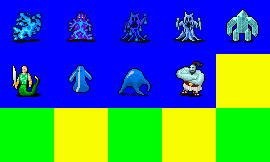
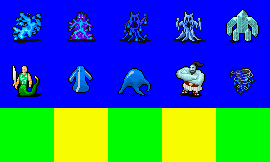
Added trolls

Changed region(s): [[0.8, 0.3086, 1.0, 0.679]]

diff --git a/monsters/goblins.py b/monsters/goblins.py
@@ -104,12 +104,12 @@ class GoblinPyromaniac( base.Monster ):
     ATTACK = items.Attack( (1,6,0), element = stats.RESIST_CRUSHING )
     TECHNIQUES = ( invocations.Invocation( "Fire Bomb",
         effects.OpposedRoll( att_skill=stats.PHYSICAL_ATTACK, att_stat=stats.REFLEXES, def_stat=stats.REFLEXES, att_modifier=-25, on_success = (
-            effects.HealthDamage( (1,6,0), stat_bonus=None, element=stats.RESIST_FIRE, anim=animobs.OrangeExplosion ),
+            effects.HealthDamage( (1,4,0), stat_bonus=None, element=stats.RESIST_FIRE, anim=animobs.OrangeExplosion ),
             effects.Enchant( enchantments.BurnLowEn )
         ,), on_failure = (
-            effects.HealthDamage( (1,6,0), stat_bonus=None, element=stats.RESIST_FIRE, anim=animobs.OrangeExplosion )
+            effects.HealthDamage( (1,4,0), stat_bonus=None, element=stats.RESIST_FIRE, anim=animobs.OrangeExplosion )
         ,) ),
-        com_tar=targetarea.Blast(radius=1,reach=6), shot_anim=animobs.Fireball, ai_tar=invocations.TargetEnemy() ), )
+        com_tar=targetarea.Blast(radius=1,reach=4), shot_anim=animobs.Fireball, ai_tar=invocations.TargetEnemy() ), )
     def init_monster( self ):
         self.levels.append( base.Humanoid( 3, self ) )
 
@@ -612,5 +612,43 @@ class OrcChampion( base.Monster ):
     ATTACK = items.Attack( (2,6,0), element = stats.RESIST_SLASHING )
     def init_monster( self ):
         self.levels.append( base.Humanoid( 8, self ) )
+
+
+
+#  ****************
+#  ***  TROLLS  ***
+#  ****************
+
+class Troll( base.Monster ):
+    name = "Troll"
+    statline = { stats.STRENGTH: 19, stats.TOUGHNESS: 19, stats.REFLEXES: 10, \
+        stats.INTELLIGENCE: 6, stats.PIETY: 9, stats.CHARISMA: 6, \
+        stats.RESIST_FIRE: -100, stats.RESIST_ACID: -100 }
+    SPRITENAME = "monster_goblins.png"
+    FRAME = 28
+    TEMPLATES = ()
+    MOVE_POINTS = 10
+    VOICE = dialogue.voice.ORCISH
+    HABITAT = ( context.HAB_EVERY, context.SET_EVERY,
+     context.MAP_DUNGEON,
+     context.MTY_HUMANOID, context.MTY_FIGHTER, context.GEN_GOBLIN )
+    ENC_LEVEL = 6
+    TREASURE = treasuretype.High()
+    ATTACK = items.Attack( (1,8,0), element = stats.RESIST_CRUSHING )
+    def init_monster( self ):
+        self.levels.append( base.Humanoid( 6, self ) )
+        self.condition.append( enchantments.PermaRegeneration() )
+
+# Rock Troll
+# Weird Troll
+# Troll Warrior
+# Rock Troll Warrior
+# Troll Champion
+# Troll Priest
+# Armored Troll
+# Fire Troll
+# Iron Troll
+# Troll King + Troll Bodyguard
+
 
 

diff --git a/monsters/constructs.py b/monsters/constructs.py
@@ -39,6 +39,7 @@ class PewterGolem( base.Monster ):
     HABITAT = ( context.HAB_BUILDING, context.SET_EVERY,
      context.MTY_CONSTRUCT, )
     ENC_LEVEL = 3
+    COMBAT_AI = aibrain.SteadyAI()
     TREASURE = treasuretype.Standard()
     ATTACK = items.Attack( (1,6,0), element = stats.RESIST_CRUSHING )
     def init_monster( self ):
@@ -56,19 +57,21 @@ class PewterGolem( base.Monster ):
 class ClockworkSoldier( base.Monster ):
     name = "Clockwork Soldier"
     statline = { stats.STRENGTH: 18, stats.TOUGHNESS: 18, stats.REFLEXES: 12, \
-        stats.INTELLIGENCE: 1, stats.PIETY: 12, stats.CHARISMA: 8 }
+        stats.INTELLIGENCE: 1, stats.PIETY: 12, stats.CHARISMA: 8, \
+        stats.RESIST_LIGHTNING: -150 }
     SPRITENAME = "monster_constructs.png"
     FRAME = 11
     TEMPLATES = (stats.CONSTRUCT,)
-    MOVE_POINTS = 10
+    MOVE_POINTS = 8
     VOICE = None
     HABITAT = ( context.HAB_EVERY, context.HAB_TUNNELS, context.SET_EVERY,
      context.MAP_DUNGEON,
      context.MTY_CONSTRUCT, context.MTY_FIGHTER )
     ENC_LEVEL = 5
+    COMBAT_AI = aibrain.BrainDeadAI()
     # Clockwork soldiers don't have normal treasure, but may drop a nice sword.
     TREASURE = treasuretype.Standard( (items.SWORD,), swag_chance=25, swag_quality=2, scale=0 )
-    ATTACK = items.Attack( (1,10,0), element = stats.RESIST_SLASHING )
+    ATTACK = items.Attack( (1,8,0), element = stats.RESIST_SLASHING )
     def init_monster( self ):
         self.levels.append( base.Defender( 5, self ) )
 

diff --git a/monsters/chaos.py b/monsters/chaos.py
@@ -393,7 +393,27 @@ class CentaurKnight( base.Monster ):
 
 # Flame Mother (Fire,Mage)
 # Deceiver (Air,Mage)
-# Creeping Chaos
+
+class CrawlingChaos( base.Monster ):
+    name = "Crawling Chaos"
+    statline = { stats.STRENGTH: 16, stats.TOUGHNESS: 19, stats.REFLEXES: 10, \
+        stats.INTELLIGENCE: 19, stats.PIETY: 27, stats.CHARISMA: 12,
+        stats.RESIST_ATOMIC: 500 }
+    SPRITENAME = "monster_chaos.png"
+    FRAME = 16
+    TEMPLATES = ()
+    MOVE_POINTS = 6
+    HABITAT = ( context.HAB_TUNNELS,
+     context.SET_EVERY, context.DES_LUNAR, context.MTY_BEAST,
+     context.GEN_CHAOS )
+    ENC_LEVEL = 9
+    COMBAT_AI = aibrain.BrainDeadAI()
+    ATTACK = items.Attack( (1,12,0), element = stats.RESIST_LUNAR, damage_mod=None,
+        hit_anim=animobs.PurpleExplosion )
+    def mitose( self, element ):
+        return element in ( stats.RESIST_SLASHING, stats.RESIST_PIERCING, stats.RESIST_CRUSHING, stats.RESIST_ATOMIC )
+    def init_monster( self ):
+        self.levels.append( base.Beast( 9, self ) )
 
 class CentaurChampion( base.Monster ):
     name = "Centaur Champion"    

diff --git a/items/enhancers.py b/items/enhancers.py
@@ -266,7 +266,7 @@ class HolyWeapon( Enhancer ):
                     effects.Paralyze( max_duration = 3 )
                 ,)
             ,),)
-        ,) ) 
+        ), ) 
         ),))
     BONUSES = stats.StatMod({ stats.PHYSICAL_ATTACK: 5, stats.RESIST_LUNAR: 25 })
 
@@ -283,7 +283,7 @@ class HolyBow( Enhancer ):
                     effects.Paralyze( max_duration = 3 )
                 ,)
             ,),)
-        ,) ) )
+        ,), ) )
     BONUSES = stats.StatMod({ stats.PHYSICAL_ATTACK: 10, stats.RESIST_LUNAR: 25 })
 
 class Vorpal( Enhancer ):

diff --git a/monsters/plants.py b/monsters/plants.py
@@ -34,7 +34,7 @@ class GreySlime( base.Monster ):
      context.SET_EVERY, context.DES_EARTH, context.MTY_BEAST,
      context.MTY_PLANT, context.GEN_NATURE )
     ENC_LEVEL = 2
-
+    COMBAT_AI = aibrain.BrainDeadAI()
     ATTACK = items.Attack( (1,6,0), element = stats.RESIST_ACID, damage_mod=None,
         hit_anim=animobs.GreenExplosion )
     def mitose( self, element ):

diff --git a/characters.py b/characters.py
@@ -28,7 +28,7 @@ class Level( object ):
     LEVELS_PER_GEM = 1
     GEMS_PER_AWARD = 1
     legal_equipment = ()
-    XP_VALUE = 125
+    XP_VALUE = 150
     MIN_RANK = 0
     FULL_HP_AT_FIRST = True
     def __init__( self, rank=0, pc=None ):
